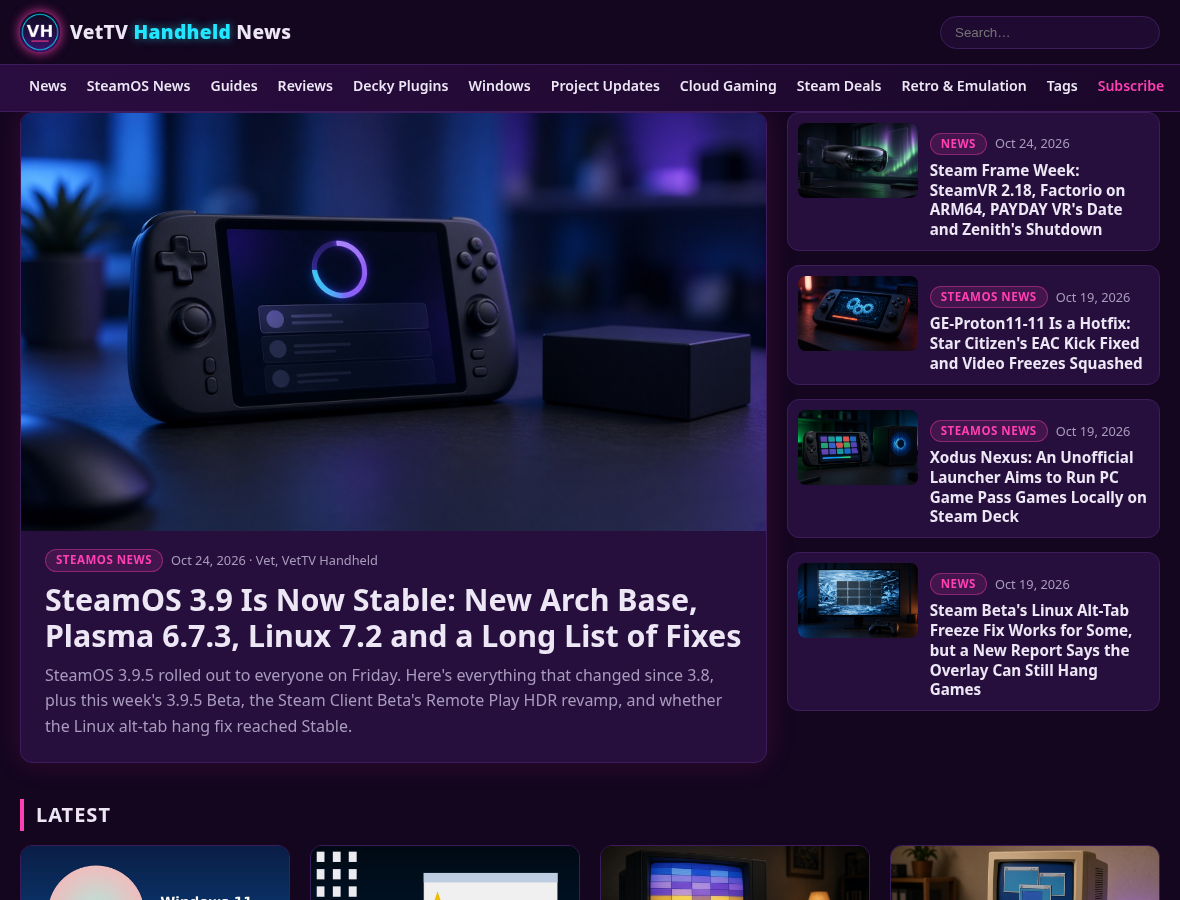
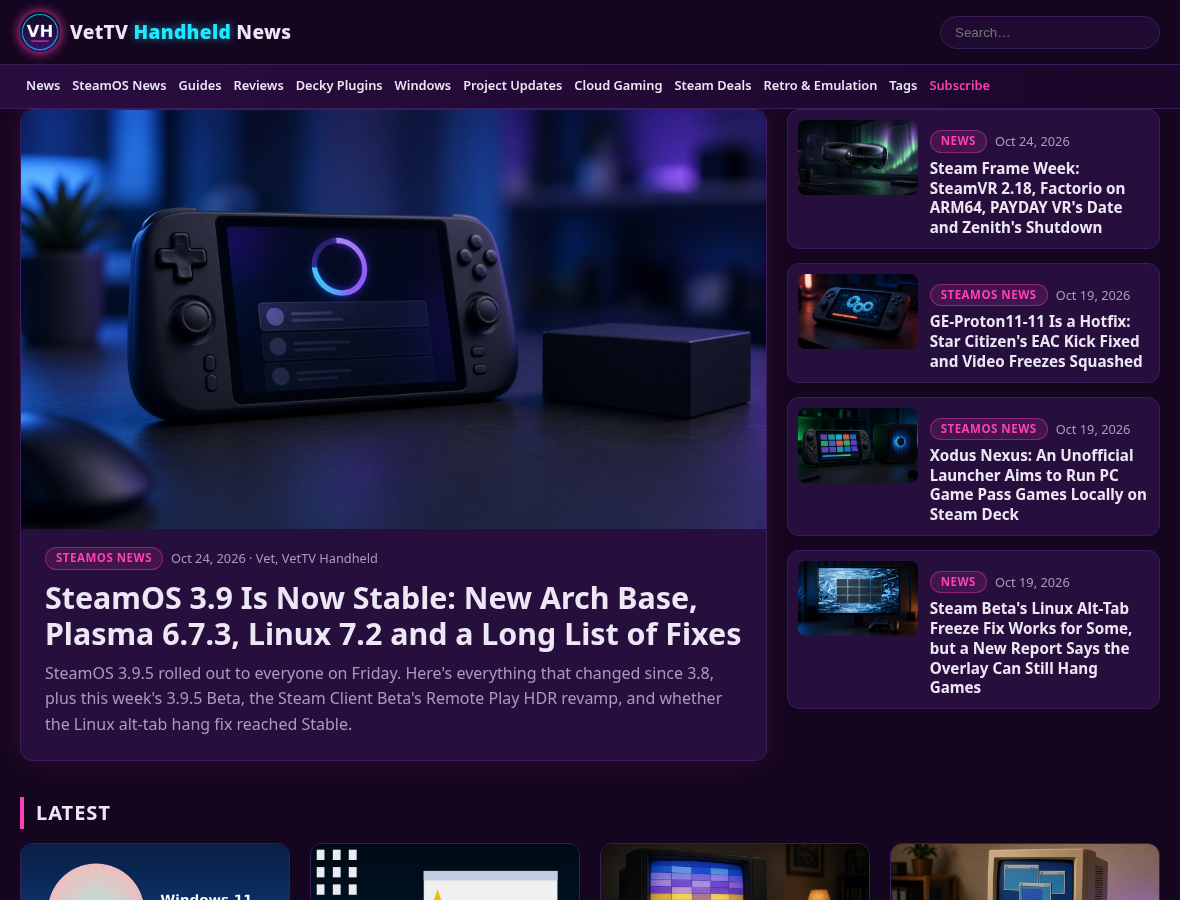
Windows section edits for publish: soften wearr quote, Vet, VetTV Studios bylines, move WinUI Gallery 3.0 to Windows, tighten desktop nav to fit 10 tabs

diff --git a/src/styles/global.css b/src/styles/global.css
@@ -144,6 +144,6 @@ main{padding:24px 20px 48px}
  .foot{padding:22px 0}.foot p a{display:inline-block;padding:8px 4px}
 }
 @media (max-width:380px){.brand{font-size:.92rem;gap:6px}.brand img{width:30px;height:30px}.bar{gap:4px}}
-/* 9 sections: default nav needs ~1280px but .wrap caps at 1240px, so tighten on all desktop widths; tighter still below 1180px */
-@media (min-width:769px){.cats .wrap{gap:2px}.cats a{padding:10px 9px;font-size:.88rem}}
-@media (min-width:769px) and (max-width:1179px){.cats .wrap{gap:0}.cats a{padding:10px 7px;font-size:.84rem}}
+/* 11 sections: tighten nav at every desktop width so it stays on one row down to 1024px; 769-1023px scrolls sideways */
+@media (min-width:769px){.cats .wrap{gap:0}.cats a{padding:10px 6px;font-size:.8rem}}
+@media (min-width:769px) and (max-width:1179px){.cats .wrap{gap:0}.cats a{padding:10px 4px;font-size:.74rem;letter-spacing:-.005em}}

diff --git a/src/content/posts/win7-userspace-win10-kernel-wearr.md b/src/content/posts/win7-userspace-win10-kernel-wearr.md
@@ -5,7 +5,7 @@ summary: "Developer wearr has been pairing a Windows 7 SP1 userland with Windows
 seoTitle: "Windows 7 Userspace on a Windows 10 Kernel: wearr's Experiment"
 pubDate: 2026-10-26
 publishedAt: 2026-10-26T13:50:37.760Z
-author: "Vet, VetTV Handheld"
+author: "Vet, VetTV Studios"
 category: windows
 tags: ["windows","windows-7","windows-10","retro-computing","reverse-engineering","hobbyist-projects"]
 cover: "covers/win7-userspace-win10-kernel-wearr.jpg"
@@ -42,7 +42,7 @@ The attached 640x480 screenshot shows a Windows 7-style taskbar and Start orb ov
 
 This isn't wearr's first post about the project:
 
-- **October 8 (7:49 PM CT):** wearr posted "doing some bullshit (windows 10 1502 kernel with windows 7 sp1 userland)." Note the "1502" there. Monday's post calls the stable kernel "1507," which is the first public Windows 10 release. wearr hasn't clarified whether "1502" was a typo or a different build, so I'm treating it as unconfirmed.
+- **October 8 (7:49 PM CT):** wearr posted that they were "doing some BS (windows 10 1502 kernel with windows 7 sp1 userland)." Note the "1502" there. Monday's post calls the stable kernel "1507," which is the first public Windows 10 release. wearr hasn't clarified whether "1502" was a typo or a different build, so I'm treating it as unconfirmed.
 - **October 12:** Replying to a question about whether the project was "clean," wearr wrote: "No leaked code used, I had no idea there were even rumors of win7 leaks."
 
 There's no public download, repo or release from wearr that I could find. This is an in-progress experiment shared as screenshots.

diff --git a/src/content/posts/winui-gallery-3-0.md b/src/content/posts/winui-gallery-3-0.md
@@ -4,7 +4,7 @@ description: "Microsoft's showcase app for WinUI 3 now runs on the experimental 
 pubDate: 2026-10-13
 publishedAt: 2026-10-17T20:54:12-05:00
 author: "Vet, VetTV"
-category: news
+category: windows
 tags: ["windows","winui","dev"]
 cover: "covers/winui-gallery-3-0.jpg"
 source: "Article Desk: winui-gallery-3-0.md"
